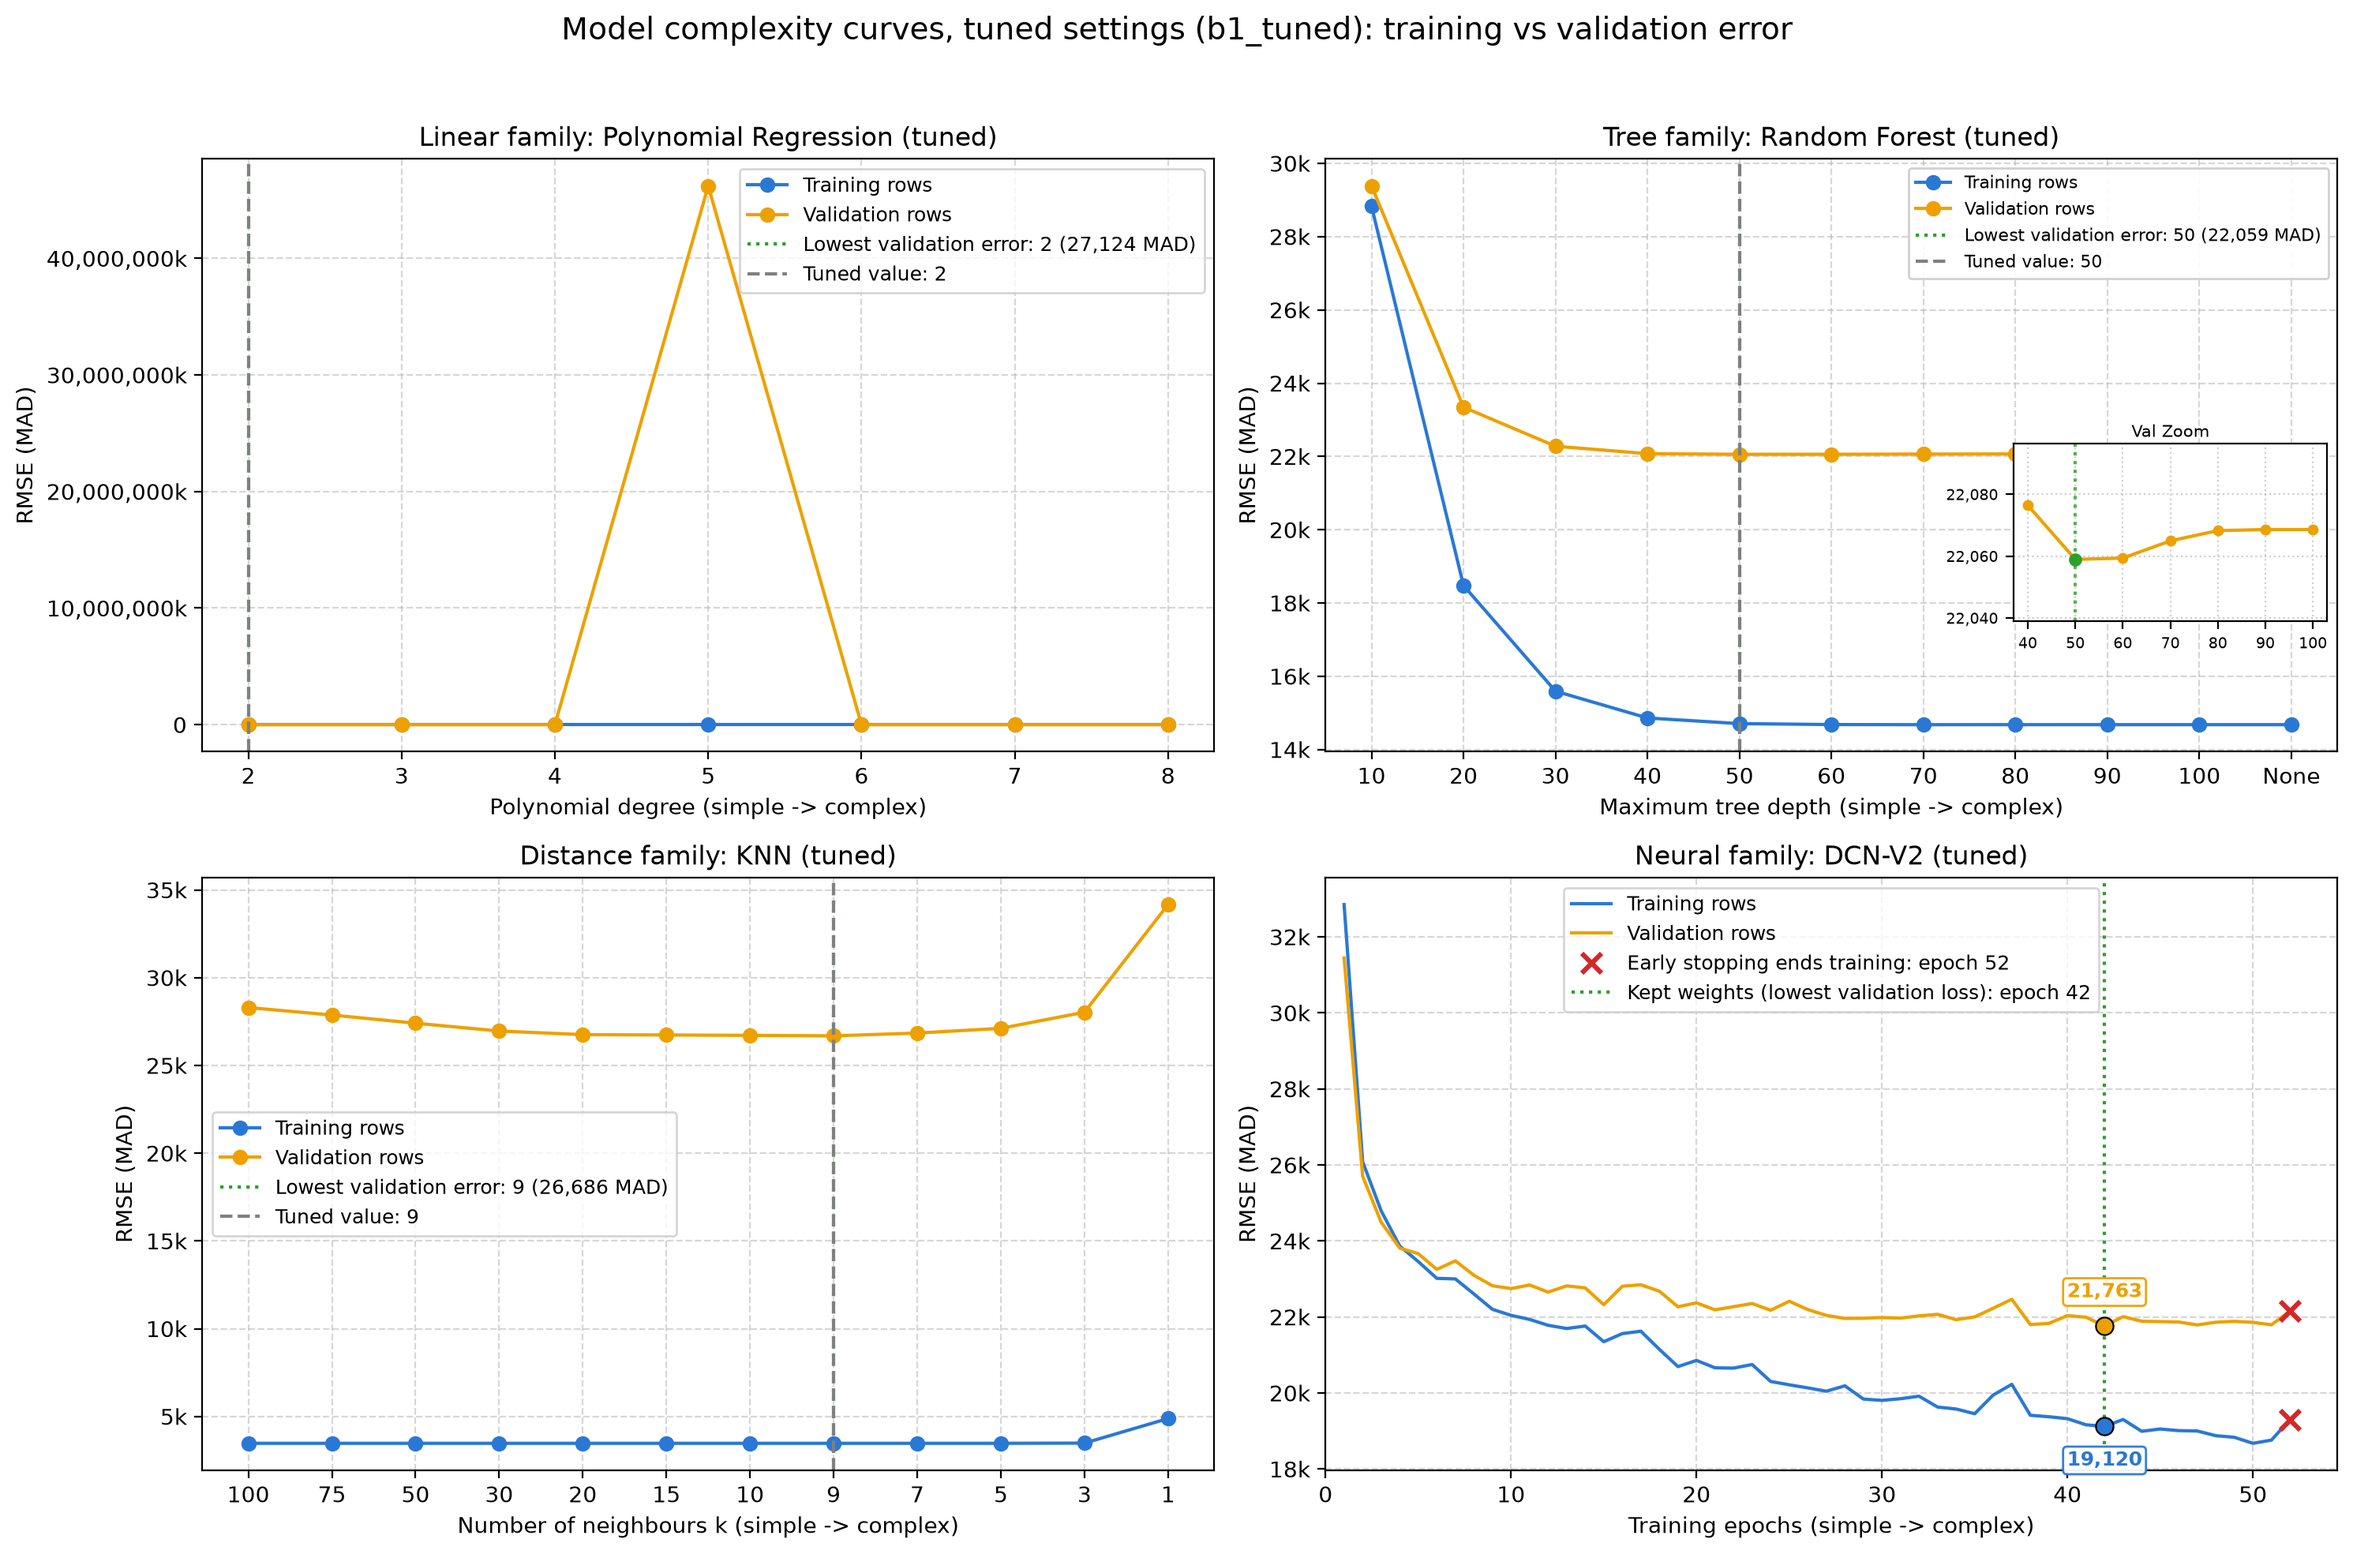
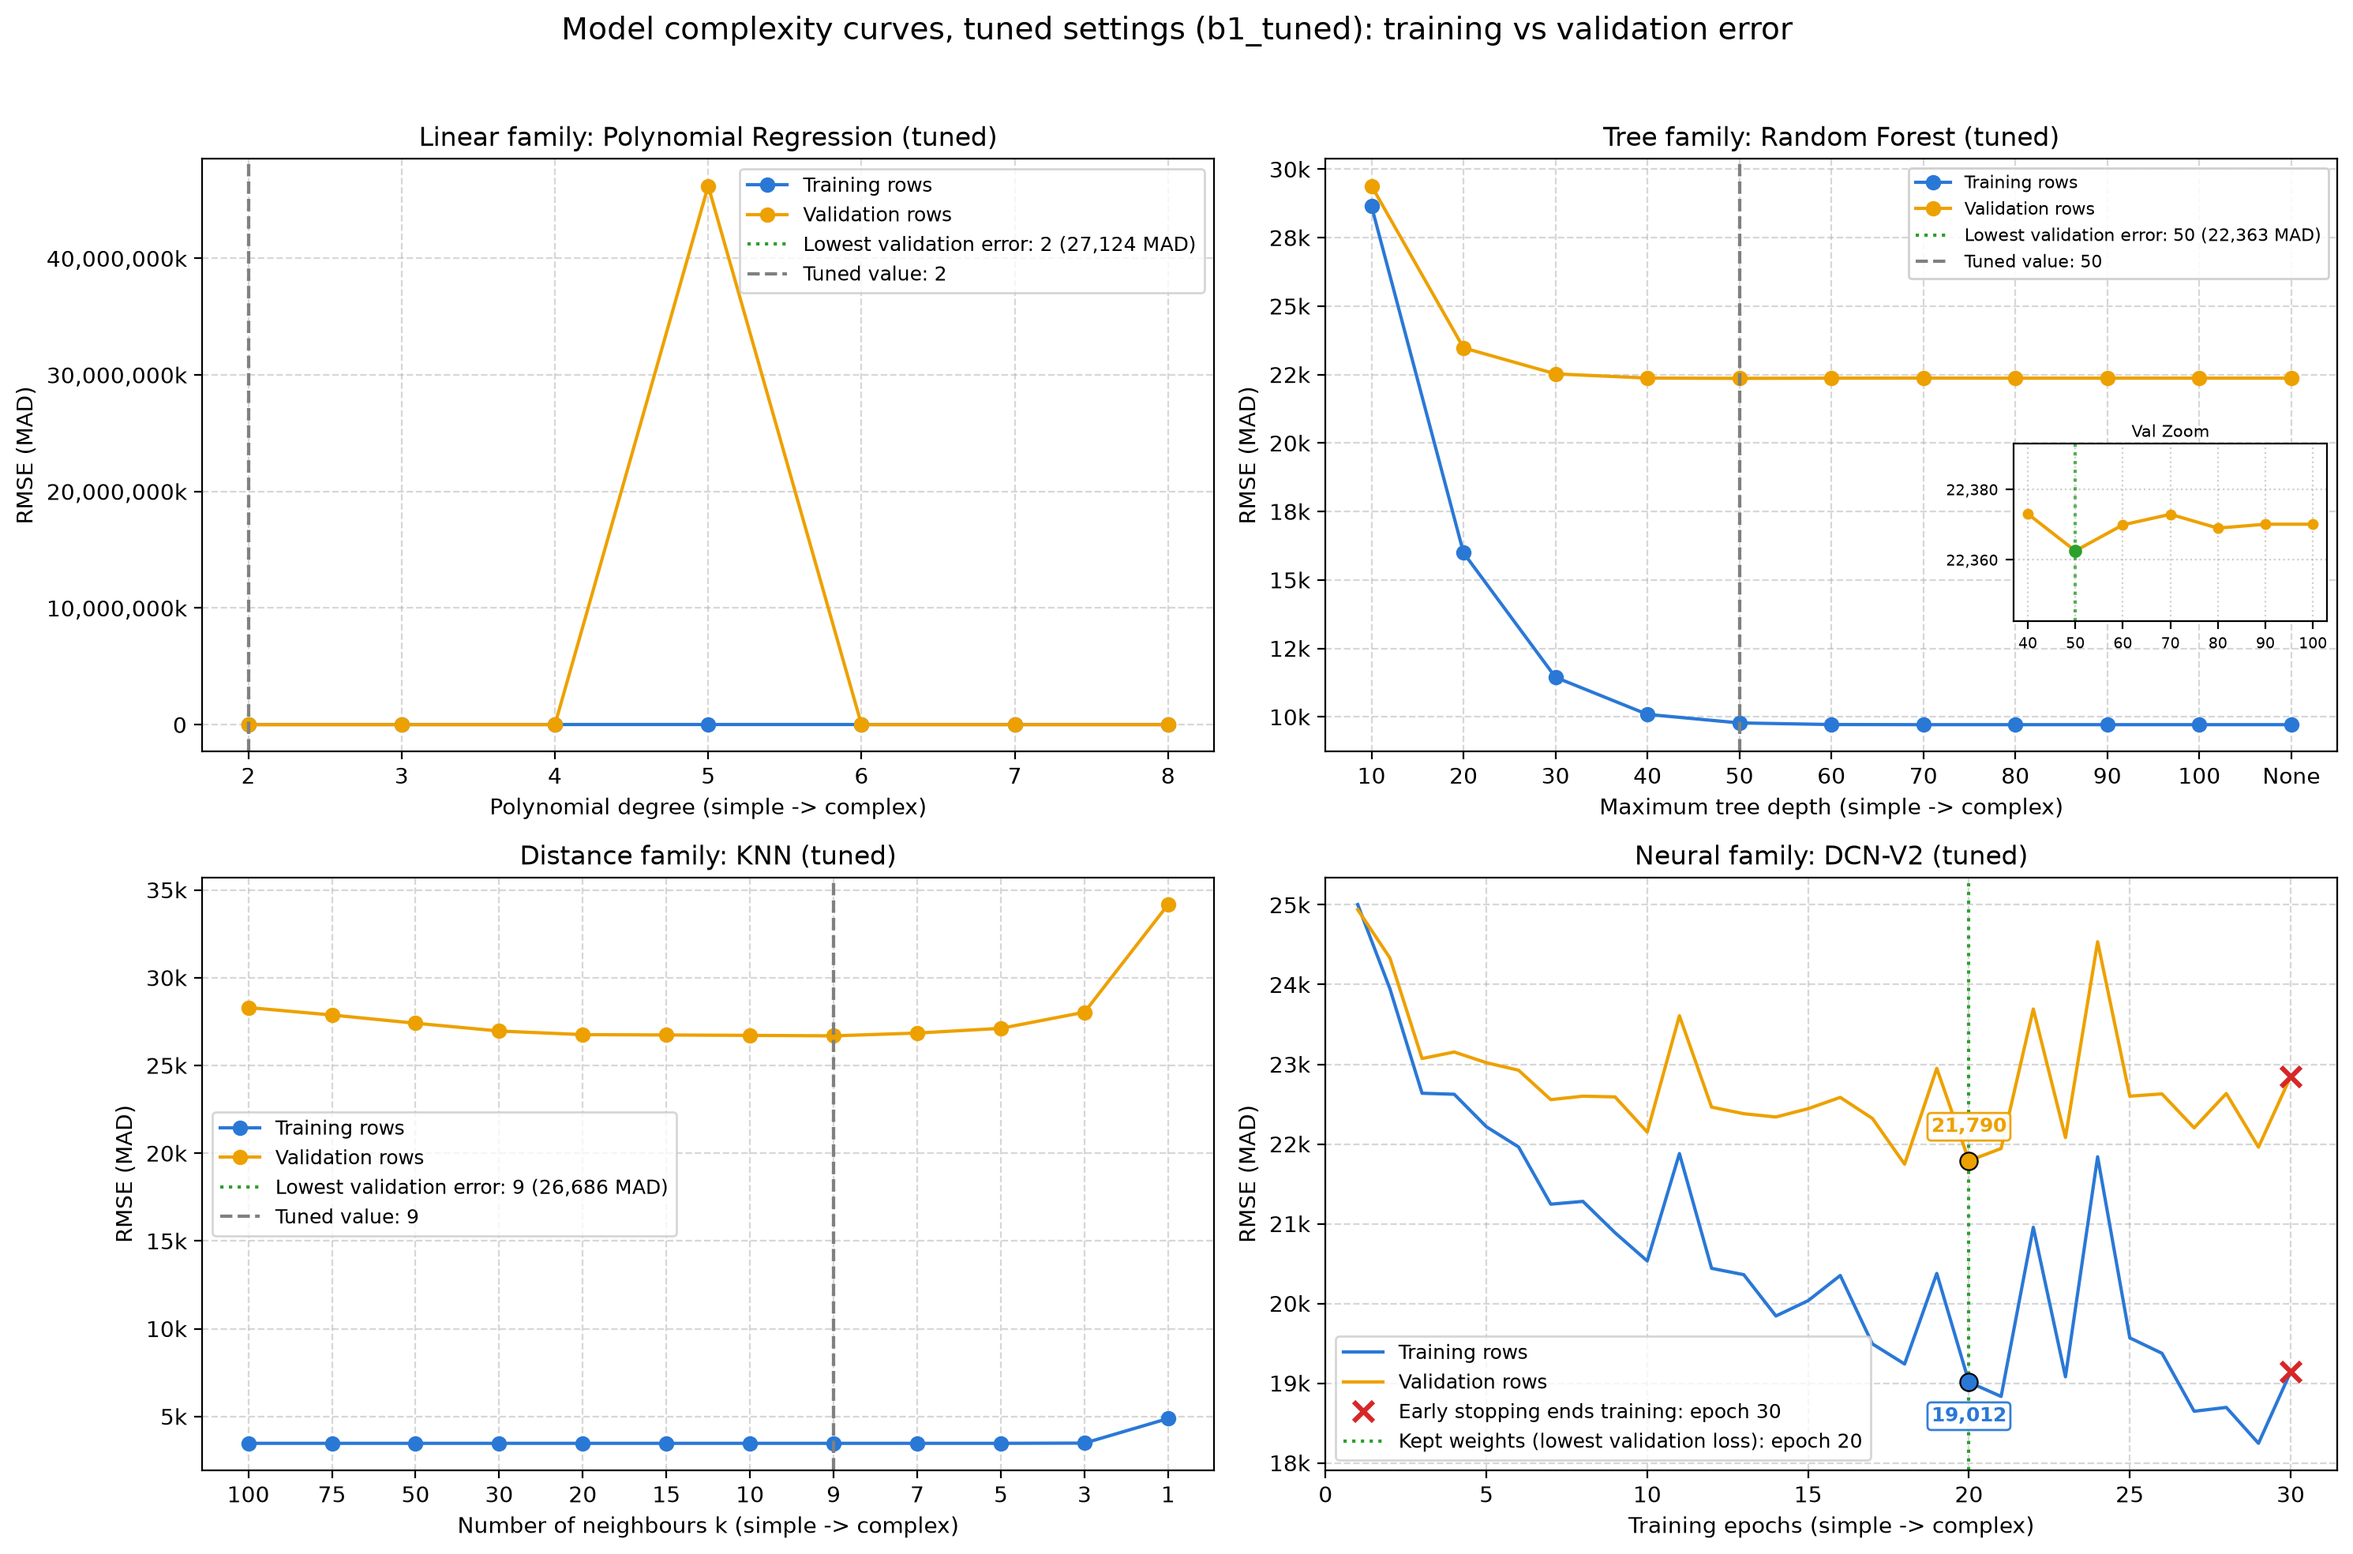
Adds Random Forest and DCN-V2 graph and values

diff --git a/src/tuned_models/run_neural.py b/src/tuned_models/run_neural.py
@@ -26,7 +26,7 @@ from src.shared.stages import choose_stage, load_data
 BEST_PARAMS = {
     "b1_tuned": {
         "MLP": {'n_layers': 3, 'units': 128, 'activation': 'gelu', 'dropout': 0.2, 'lr': 0.003, 'weight_decay': 0.0001, 'batch_size': 256},
-        "DCN-V2": {'n_cross_layers': 1, 'low_rank': 32, 'structure': 'stacked', 'deep_layers': 2, 'units': 128, 'dropout': 0.1, 'lr': 0.0003, 'weight_decay': 1e-05, 'batch_size': 256},
+        "DCN-V2": {'n_cross_layers': 3, 'low_rank': 32, 'structure': 'stacked', 'deep_layers': 3, 'units': 128, 'dropout': 0.1, 'lr': 0.001, 'weight_decay': 1e-05, 'batch_size': 256},
         "TabNet": {'n_d': 32, 'n_steps': 3, 'gamma': 1.5, 'lambda_sparse': 0.0001, 'lr': 0.02, 'batch_size': 1024, 'virtual_batch_size': 128},
     },
 }

diff --git a/src/tuned_models/run_tree.py b/src/tuned_models/run_tree.py
@@ -23,7 +23,7 @@ from src.shared.stages import choose_stage, load_data
 BEST_PARAMS = {
     "b1_tuned": {
         "Decision Tree": {'max_depth': None, 'min_samples_split': 40, 'min_samples_leaf': 2, 'max_features': None, 'criterion': 'squared_error', 'ccp_alpha': 0.0},
-        "Random Forest": {"n_estimators": 500, "min_samples_split": 10, "min_samples_leaf": 1, "max_features": 1.0, "max_depth": 50, "bootstrap": True},
+        "Random Forest": {"n_estimators": 500, "min_samples_split": 2, "min_samples_leaf": 1, "max_features": 1.0, "max_depth": 50, "bootstrap": True},
         "Gradient Boosting": {'learning_rate': 0.1, 'max_depth': 8, 'max_features': 1.0, 'min_samples_leaf': 1, 'min_samples_split': 10, 'n_estimators': 500, 'subsample': 0.7},
     },
 }
